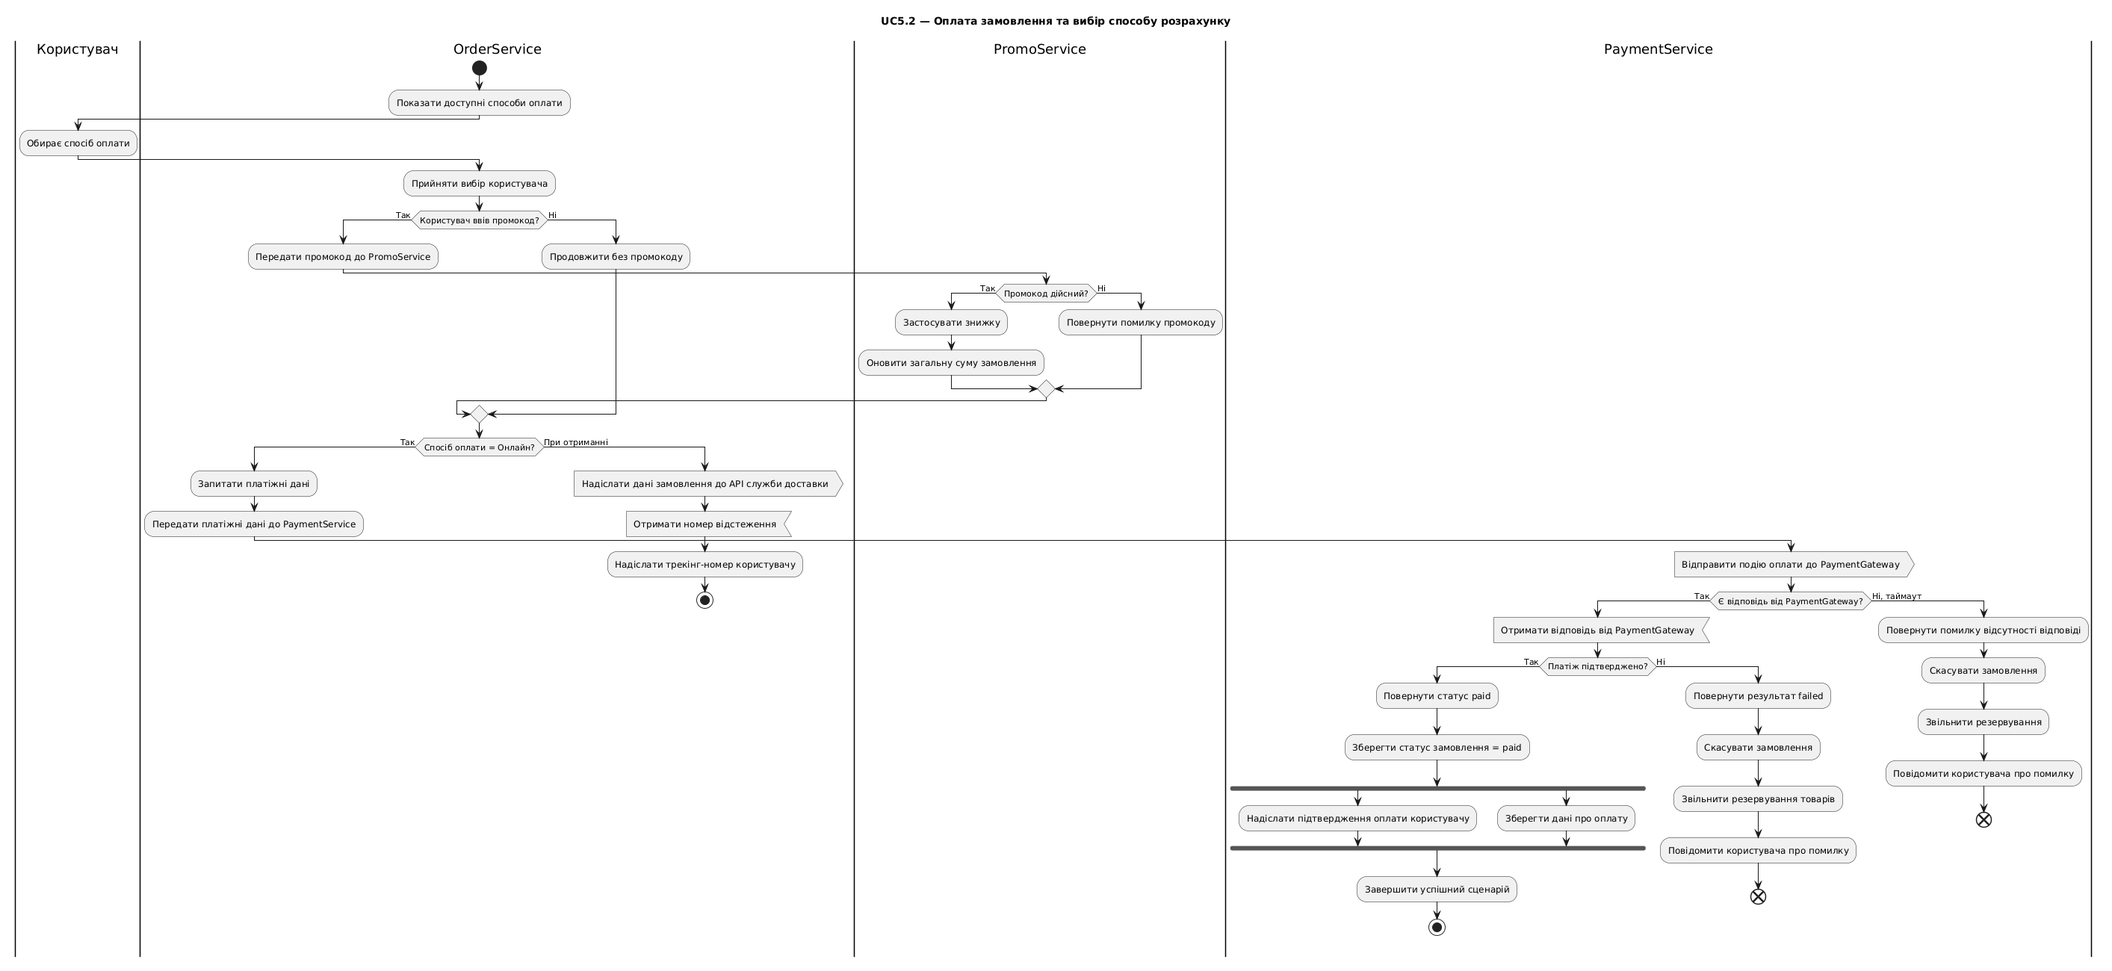
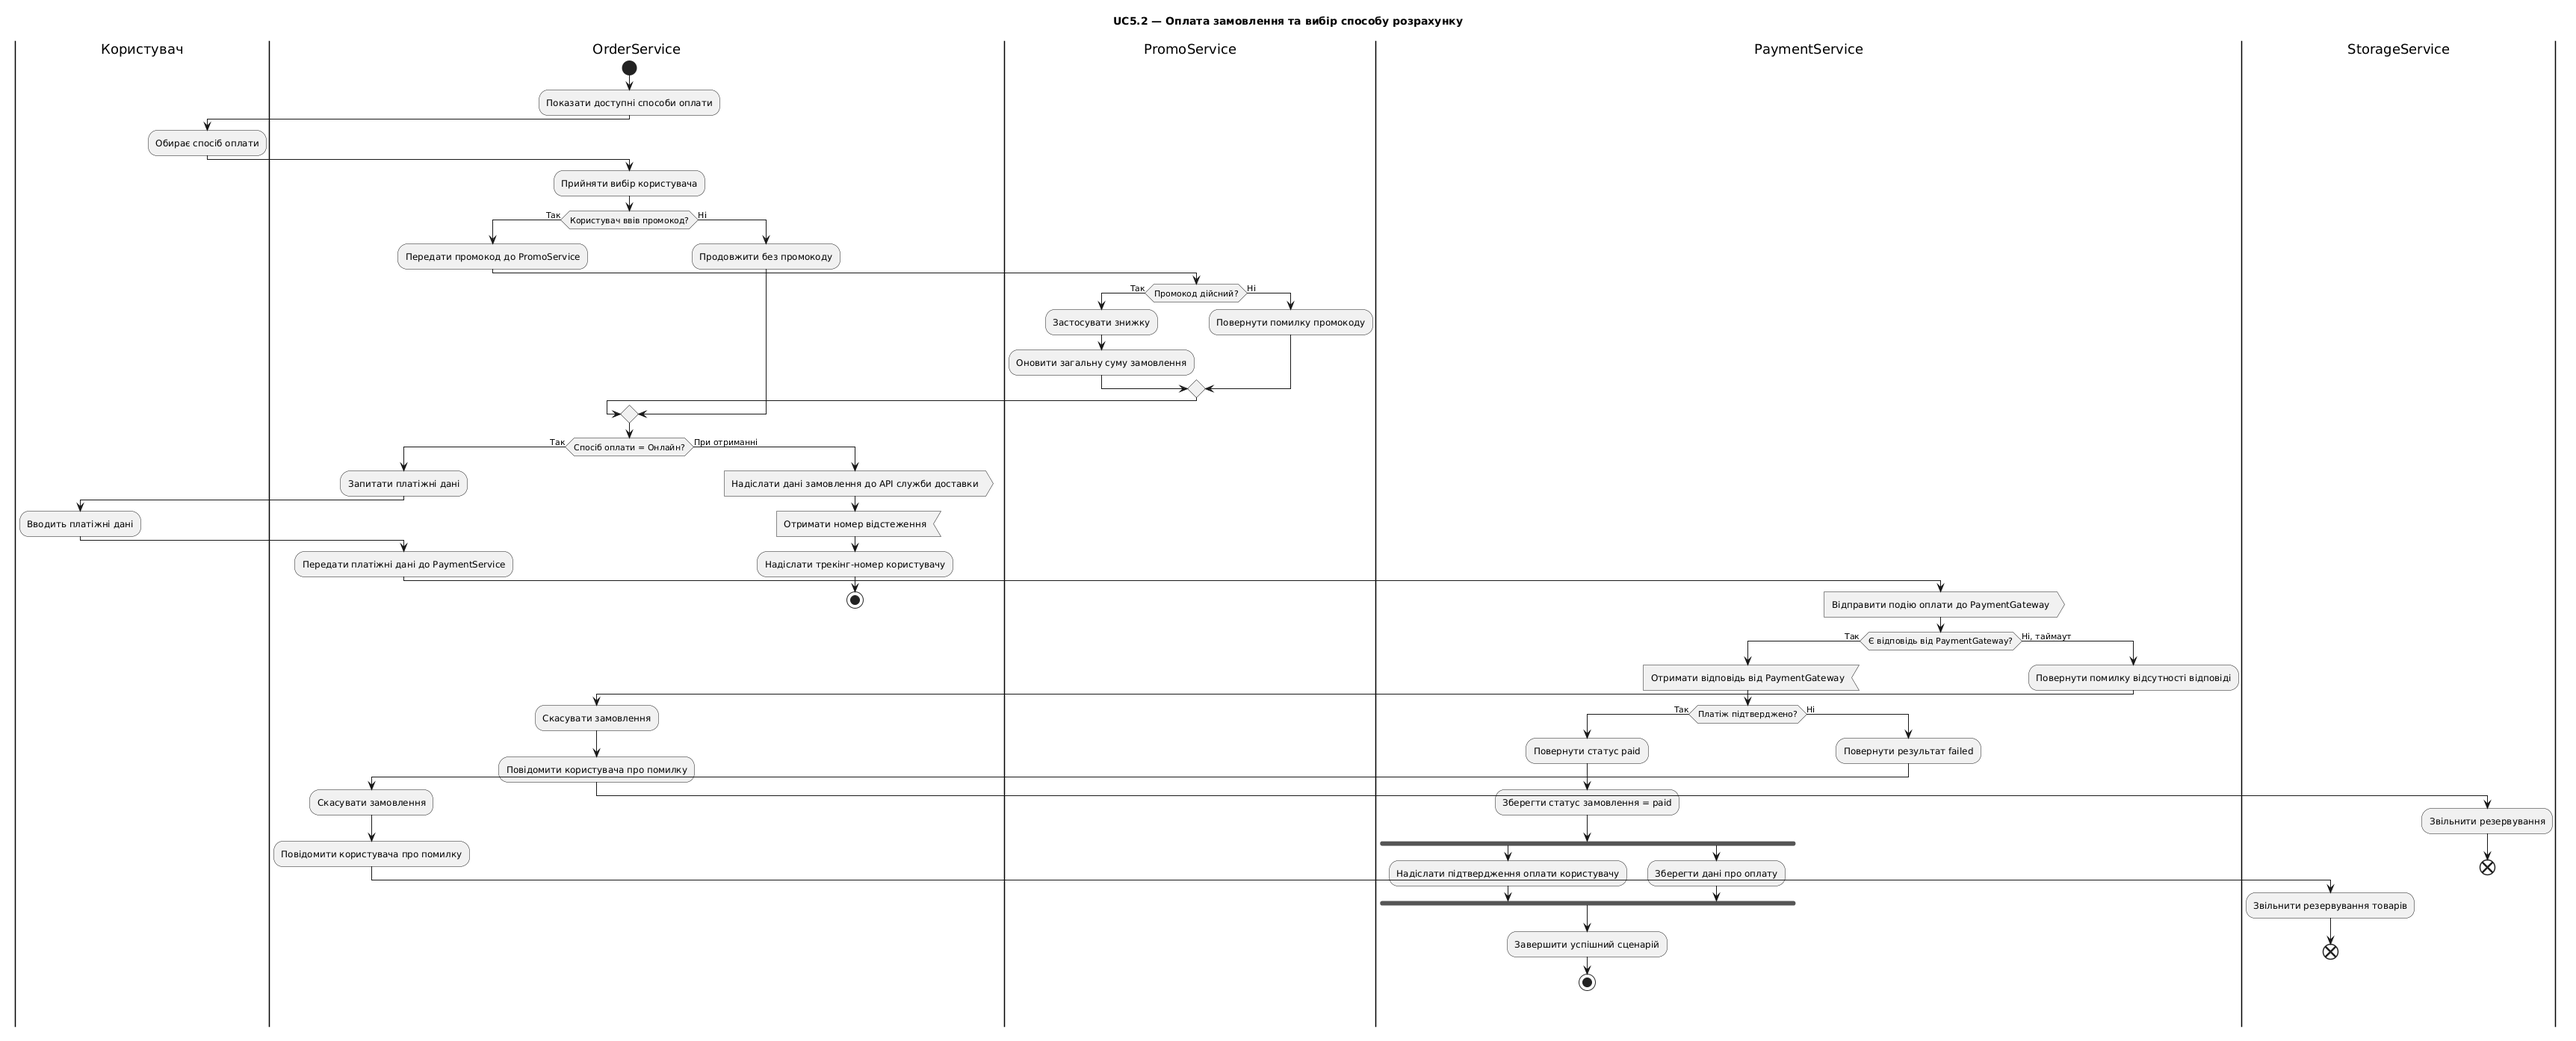
Додав пропущений крок користувач вводить платіжні дані

diff --git a/lab4/spec.md b/lab4/spec.md
@@ -34,7 +34,7 @@ Activity Diagram є офіційною частиною стандарту UML, 
 6. Користувач має змогу ввести промокод, якщо він є. 
 * Якщо він дійсний загальна сума замовлення зменшується.
 * Якщо ні, виводиться помилка.
-8. Якщо користовач, як спосіб оплати обрав оплату онлайн, то сервіс оплати перредає сигнал оплати до PaymentGateway.
+8. Якщо користовач, як спосіб оплати обрав оплату онлайн, то сервіс замовлення запитує у користувача платіжні дані, користувач їх вводить і вони передаються до PaymentService, сервіс оплати перредає сигнал оплати до PaymentGateway.
 * Якщо оплата успішна, то PaymentService повідомлює про успіх та паралельно збергіає дані про оплату.
 * Якщо ні, то OrderService скасовує замовлення і повертає помилку користувачу, а StorageService звільняє резервування товарів на складі.
 9. Якщо користувач обирає оплату при отриманні, то сервіс передає сигнал до API поштової служби, потім передає трекінгові дані користувачеві.

diff --git a/lab4/payment_activity.md b/lab4/payment_activity.md
@@ -33,6 +33,9 @@ endif
 |OrderService|
 if (Спосіб оплати = Онлайн?) then (Так)
     :Запитати платіжні дані;
+    |Користувач|
+    :Вводить платіжні дані;
+    |OrderService|
     :Передати платіжні дані до PaymentService;
     |PaymentService|
     :Відправити подію оплати до PaymentGateway; <<output>>
